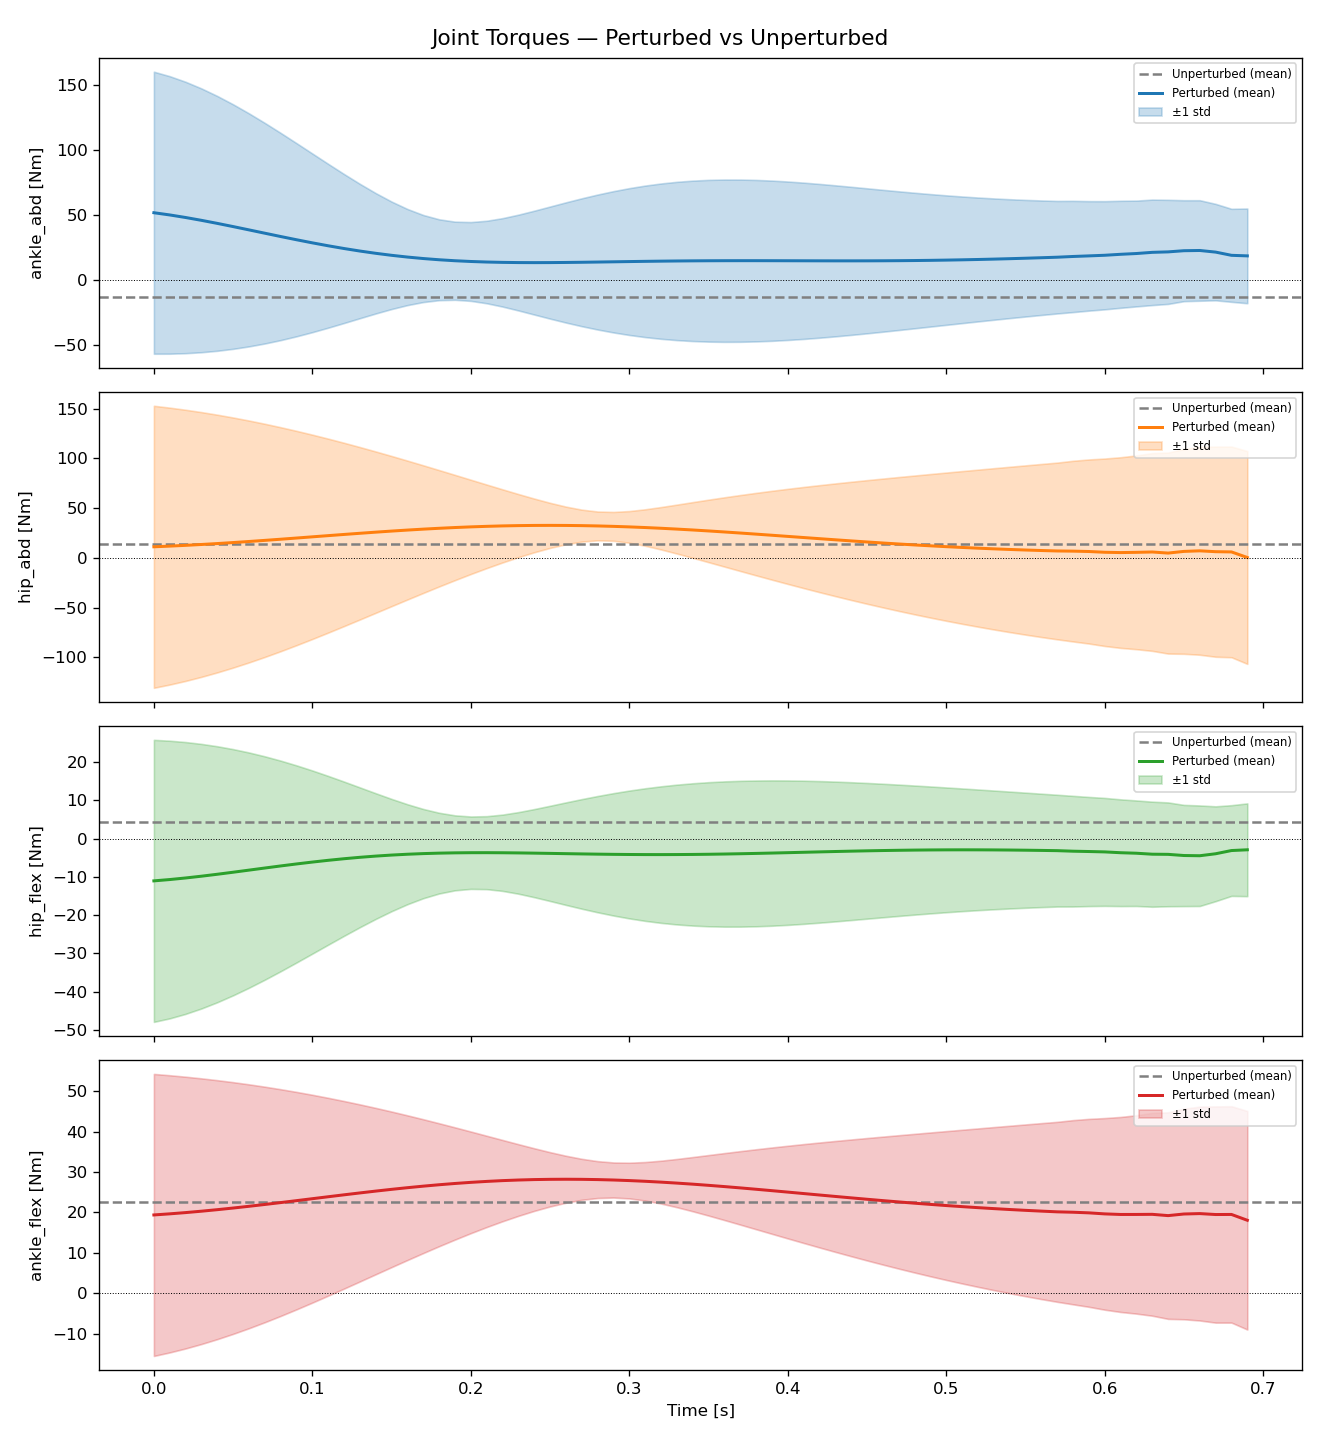
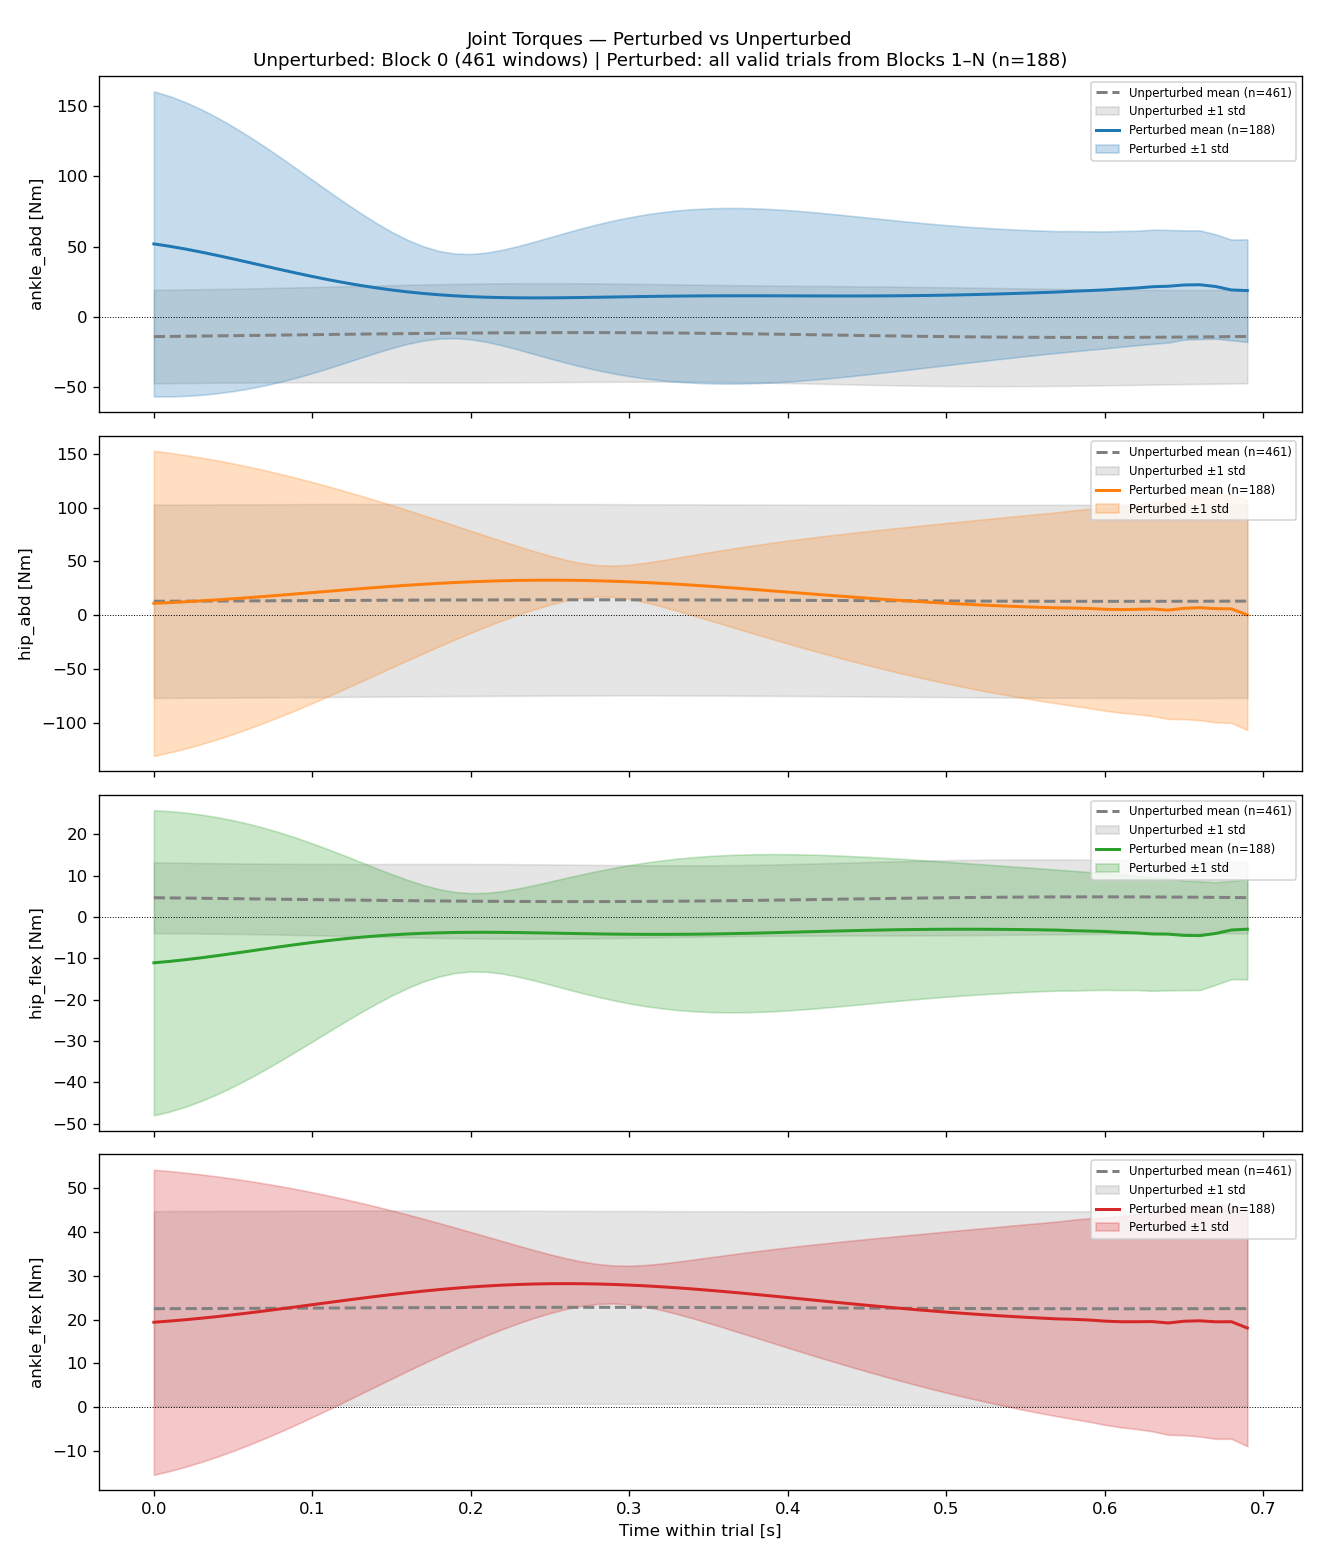
torque_comparison

diff --git a/Script/phase0_analysis.py b/Script/phase0_analysis.py
@@ -400,10 +400,19 @@ print(f"Saved {len(valid_trials)} trial plots → {TRIAL_DIR}/")
 
 
 # ── Torque comparison: perturbed vs unperturbed ───────────────────────────
-block0_frames    = df[df['block_id'] == 0].copy().reset_index(drop=True)
-median_len       = int(trial_lengths.median())
-unperturbed_mean = {f'tau_{col}': block0_frames[f'tau_{col}'].mean() for col in JOINT_MODEL}
+block0_frames = df[df['block_id'] == 0].copy().reset_index(drop=True)
+median_len    = int(trial_lengths.median())
+n_unperturbed_windows = len(block0_frames) // median_len
+n_perturbed_trials    = len(valid_trials)
 
+# Unperturbed: slice Block 0 into fixed-length windows (same length as perturbed)
+unperturbed_segs = {col: [] for col in JOINT_MODEL}
+for i in range(0, len(block0_frames) - median_len, median_len):
+    seg = block0_frames.iloc[i:i + median_len]
+    for col in JOINT_MODEL:
+        unperturbed_segs[col].append(seg[f'tau_{col}'].values)
+
+# Perturbed: all valid trials from all perturbed blocks
 perturbed_segs = {col: [] for col in JOINT_MODEL}
 for tid in valid_trials:
     seg = df[df['trial_id'] == tid].reset_index(drop=True)
@@ -413,26 +422,44 @@ for tid in valid_trials:
                         constant_values=np.nan)[:median_len]
         perturbed_segs[col].append(padded)
 
-t_perturbed = np.arange(median_len) / 100.0
+t_common = np.arange(median_len) / 100.0
 
-fig, axes = plt.subplots(4, 1, figsize=(11, 12), sharex=True)
-fig.suptitle('Joint Torques — Perturbed vs Unperturbed', fontsize=13)
+fig, axes = plt.subplots(4, 1, figsize=(11, 13), sharex=True)
+fig.suptitle(
+    f'Joint Torques — Perturbed vs Unperturbed\n'
+    f'Unperturbed: Block 0 ({n_unperturbed_windows} windows) | '
+    f'Perturbed: all valid trials from Blocks 1–N (n={n_perturbed_trials})',
+    fontsize=11
+)
 
 for i, (col, clr) in enumerate(zip(JOINT_MODEL, JOINT_COLORS)):
     short = col.replace('Single_leg_', '')
-    arr   = np.array(perturbed_segs[col])
-    mean  = np.nanmean(arr, axis=0)
-    std   = np.nanstd(arr,  axis=0)
 
-    axes[i].axhline(unperturbed_mean[f'tau_{col}'],
-                    color='gray', lw=1.5, ls='--', label='Unperturbed (mean)')
-    axes[i].plot(t_perturbed, mean, color=clr, lw=1.8, label='Perturbed (mean)')
-    axes[i].fill_between(t_perturbed, mean - std, mean + std, alpha=0.25, color=clr, label='±1 std')
+    # Unperturbed mean ± std (time-varying, not flat line)
+    unperturbed_array  = np.array(unperturbed_segs[col])
+    unperturbed_mean = np.nanmean(unperturbed_array, axis=0)
+    unperturbed_std  = np.nanstd(unperturbed_array,  axis=0)
+
+    # Perturbed mean ± std
+    perturbed_array  = np.array(perturbed_segs[col])
+    perturbed_mean = np.nanmean(perturbed_array, axis=0)
+    perturbed_std  = np.nanstd(perturbed_array,  axis=0)
+
+    axes[i].plot(t_common, unperturbed_mean, color='gray', lw=1.8, ls='--',
+                 label=f'Unperturbed mean (n={n_unperturbed_windows})')
+    axes[i].fill_between(t_common, unperturbed_mean - unperturbed_std, unperturbed_mean + unperturbed_std,
+                         alpha=0.20, color='gray', label='Unperturbed ±1 std')
+
+    axes[i].plot(t_common, perturbed_mean, color=clr, lw=1.8,
+                 label=f'Perturbed mean (n={n_perturbed_trials})')
+    axes[i].fill_between(t_common, perturbed_mean - perturbed_std, perturbed_mean + perturbed_std,
+                         alpha=0.25, color=clr, label='Perturbed ±1 std')
+
     axes[i].axhline(0, color='k', lw=0.6, ls=':')
     axes[i].set_ylabel(f'{short} [Nm]')
     axes[i].legend(fontsize=7, loc='upper right')
 
-axes[-1].set_xlabel('Time [s]')
+axes[-1].set_xlabel('Time within trial [s]')
 plt.tight_layout()
 plt.savefig(os.path.join(PLOT_DIR, 'torque_comparison.png'), dpi=120)
 plt.close()